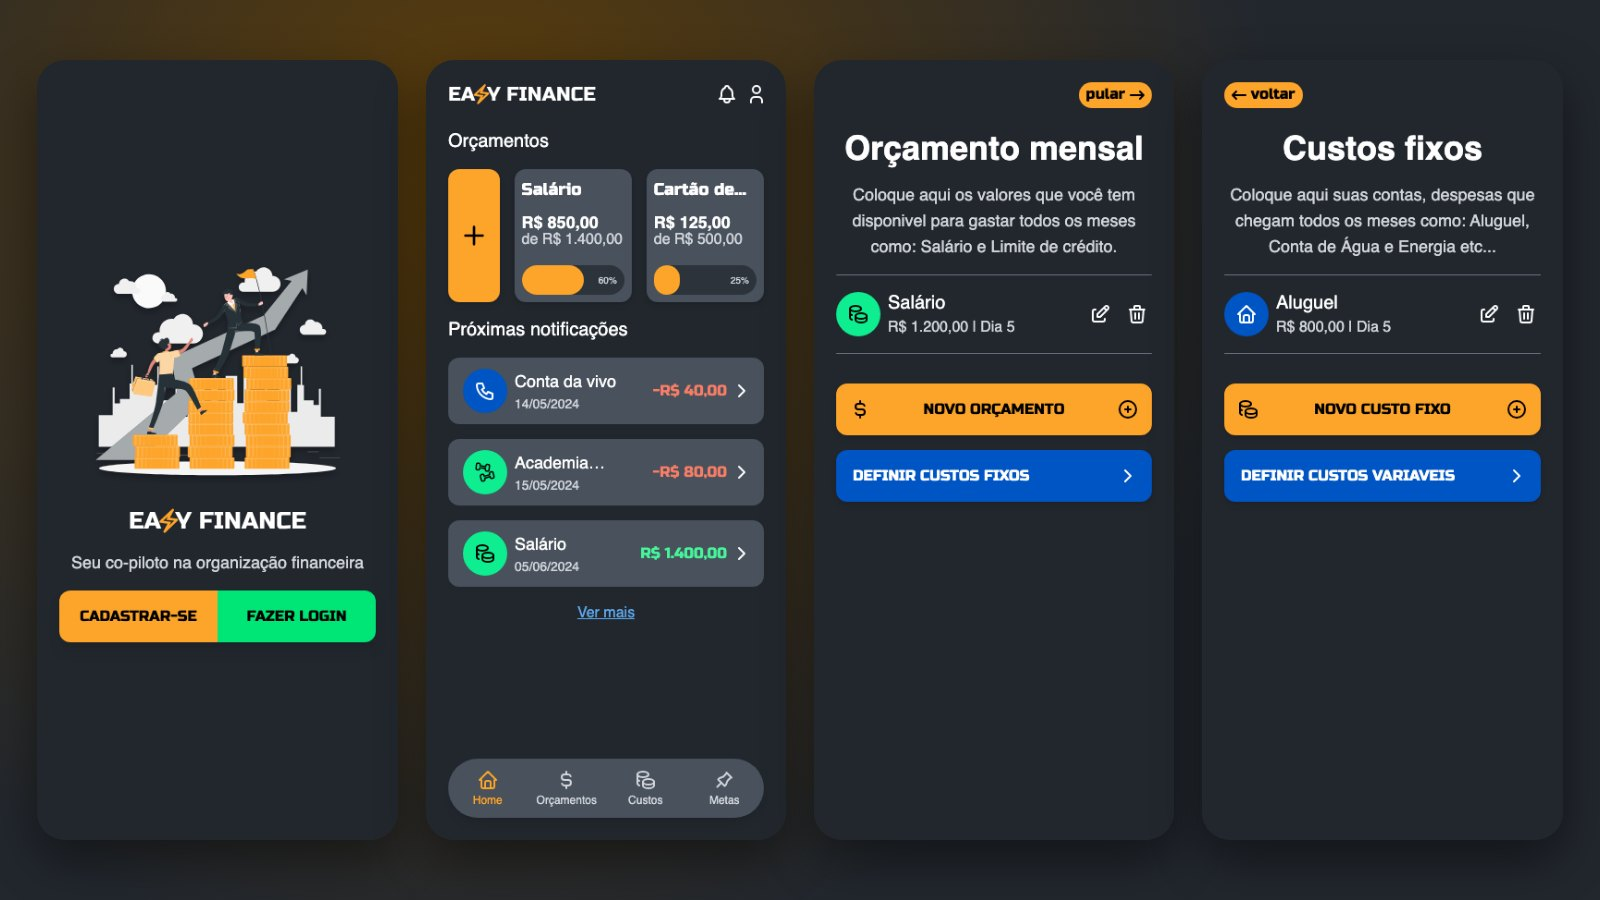
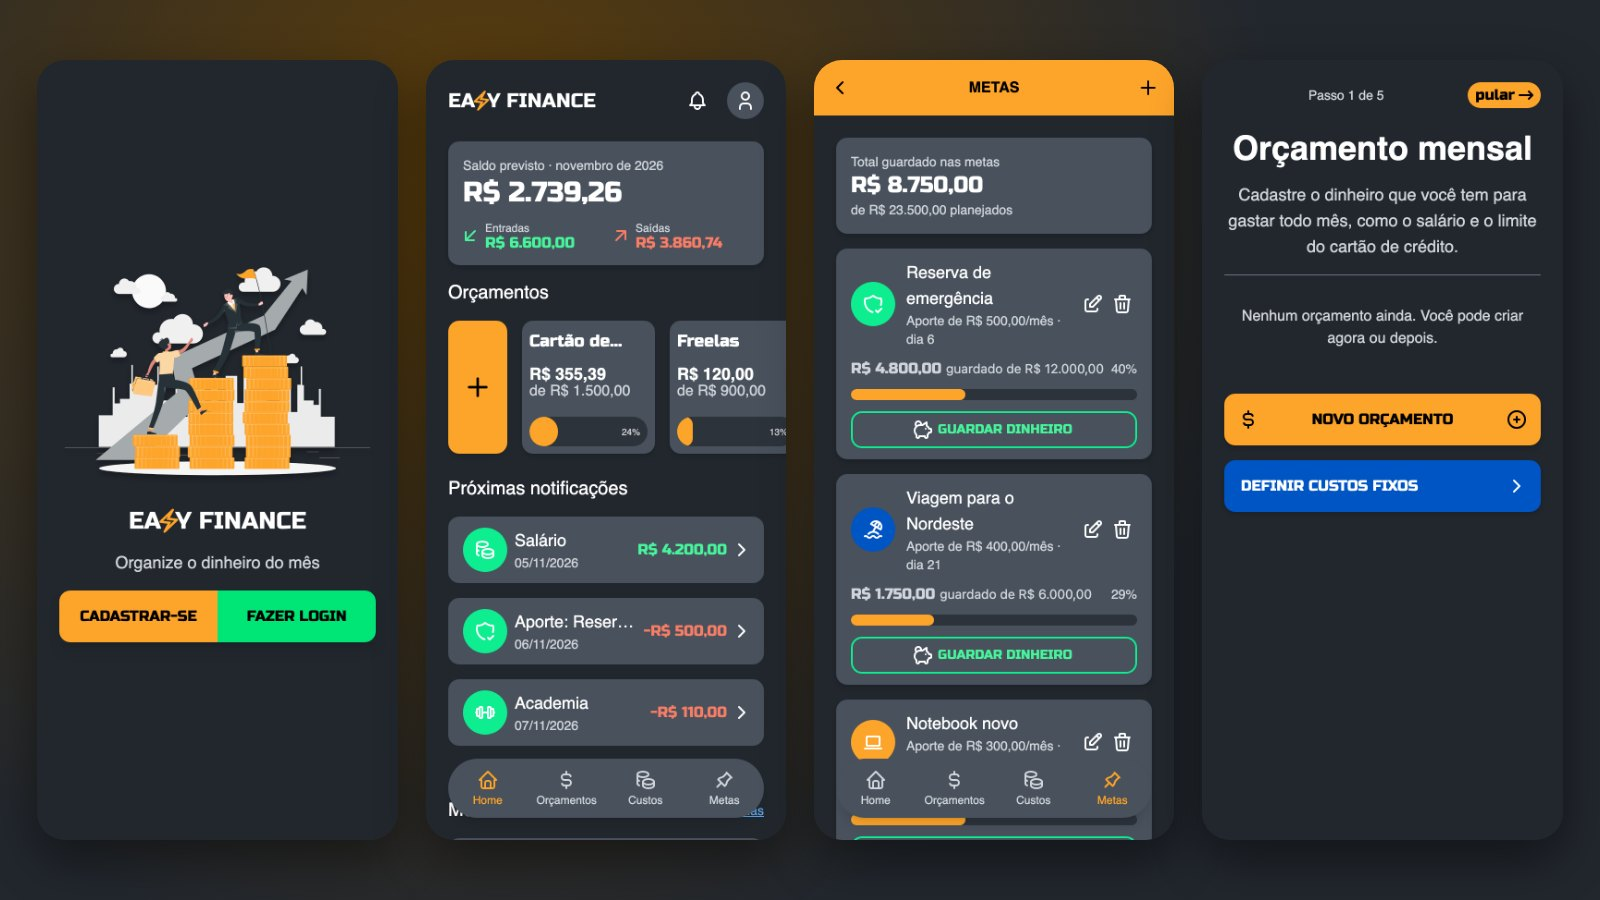
feat: update Easy Finance with the new version, preview and live link

diff --git a/components/projects/Carousel.vue b/components/projects/Carousel.vue
@@ -35,6 +35,7 @@ const items = computed(() => [
     iconUrl: "/images/easyfinance-icon.png",
     description: t("projects.easyfinance.description"),
     languages: ["pt"],
+    livePreview: "https://easyfinance-app.vercel.app",
   },
   {
     name: "PontoDigital",
